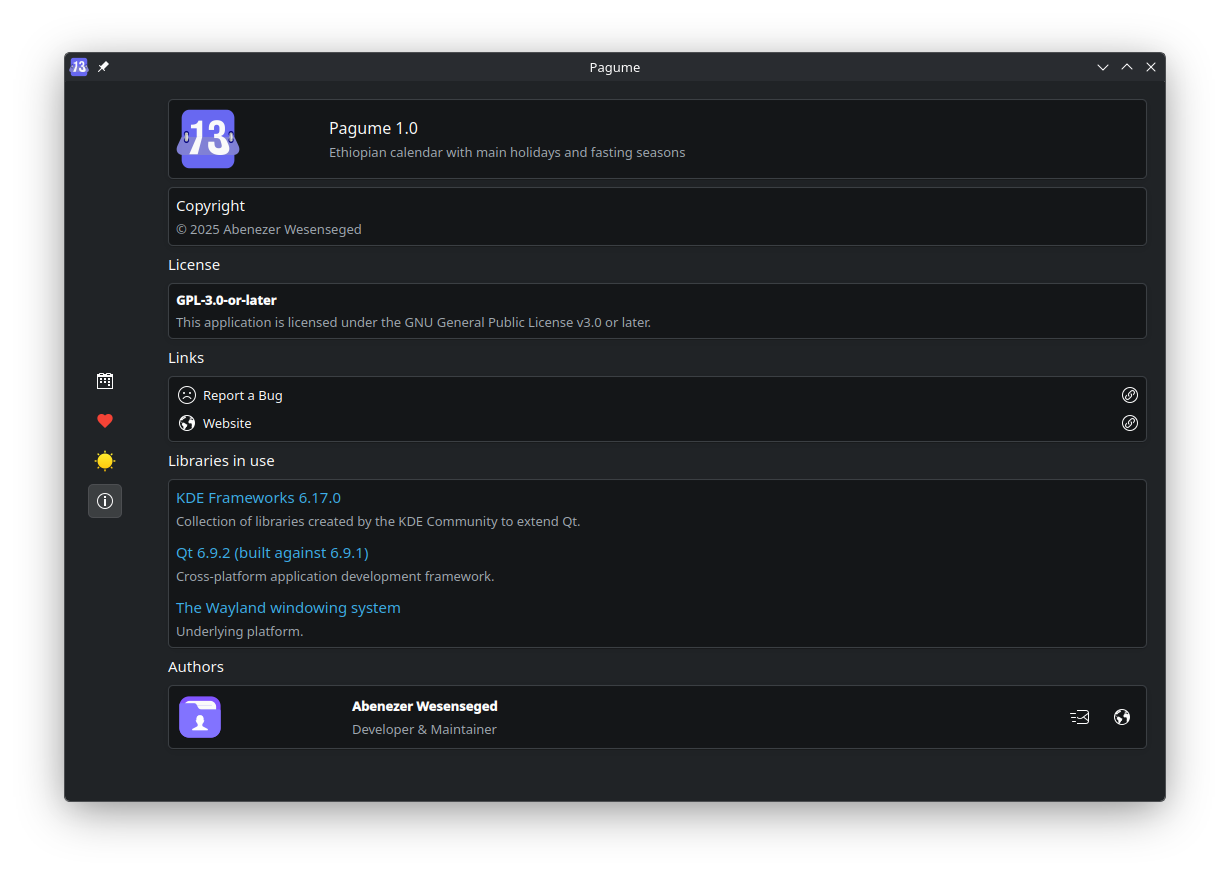
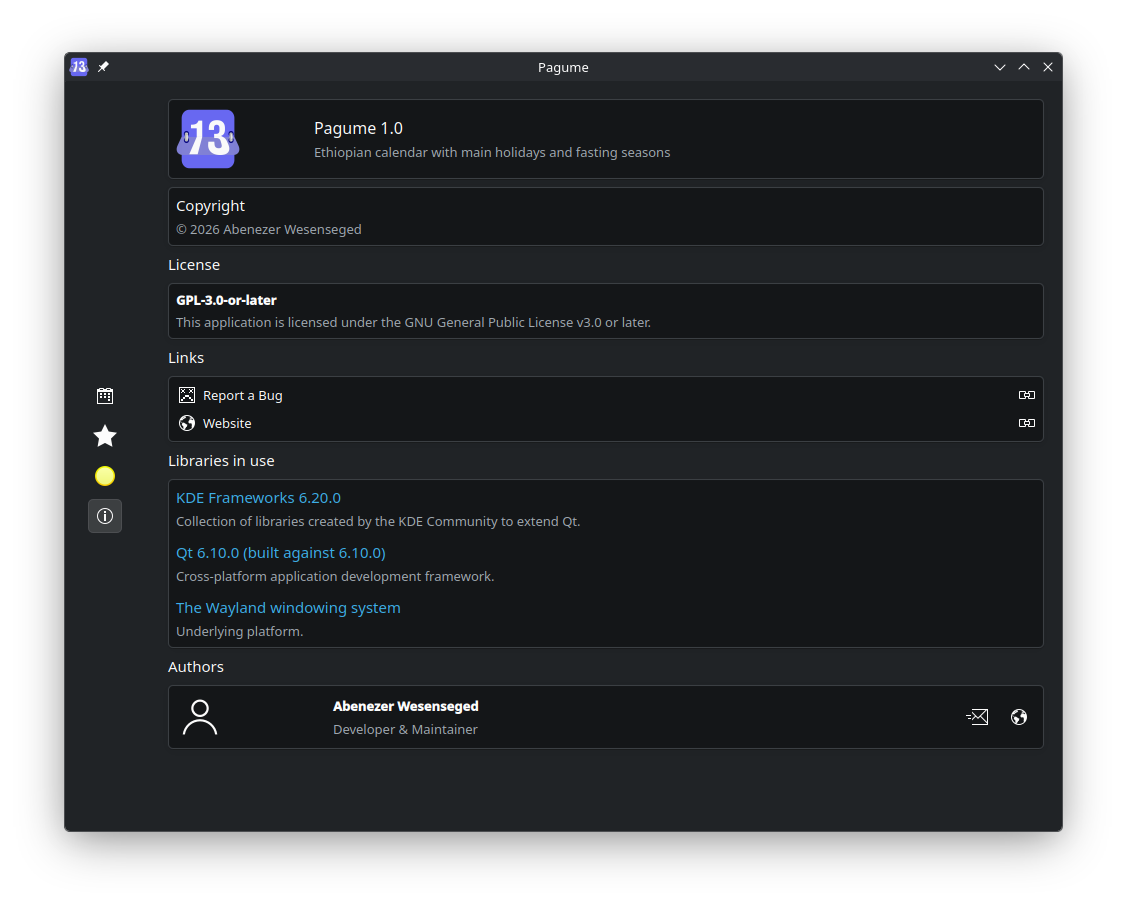
spelling corrections, update screenshots

Changed region(s): [[0.0311, 0.0308, 0.9627, 0.9226], [0.2795, 0.7688, 0.4348, 0.861]]

diff --git a/src/qml/pages/Calendar.qml b/src/qml/pages/Calendar.qml
@@ -9,6 +9,7 @@ import "EthiopianCalendar.js" as EthCal
 Kirigami.Page {
     id: calendarPage
 
+    property var months: ["መስከረም", "ጥቅምት", "ኅዳር", "ታኅሣሥ", "ጥር", "የካቲት", "መጋቢት", "ሚያዝያ", "ግንቦት", "ሰኔ", "ሐምሌ", "ነሐሴ", "ጳጕሜን"]
     property bool isAmharic: appSettings.savedIsAmharic
     property var amharicNumbers: ["፩", "፪", "፫", "፬", "፭", "፮", "፯", "፰", "፱", "፲", "፲፩", "፲፪", "፲፫", "፲፬", "፲፭", "፲፮", "፲፯", "፲፰", "፲፱", "፳", "፳፩", "፳፪", "፳፫", "፳፬", "፳፭", "፳፮", "፳፯", "፳፰", "፳፱", "፴"]
     property var arabicNumbers: ["1", "2", "3", "4", "5", "6", "7", "8", "9", "10", "11", "12", "13", "14", "15", "16", "17", "18", "19", "20", "21", "22", "23", "24", "25", "26", "27", "28", "29", "30"]
@@ -53,7 +54,7 @@ Kirigami.Page {
             day: 27
         }
         ListElement {
-            name: "የድርግ ወደቀበት ቀን"
+            name: "ደርግ የወደቀበት ቀን"
             month: "ግንቦት"
             day: 20
         }
@@ -227,7 +228,7 @@ Kirigami.Page {
                         if (isHoliday)
                             return "#7e54ff";
                         if (calendarPage.currentEthYear === calendarPage.ethToday.year && calendarPage.currentEthMonth === calendarPage.ethToday.month && dayNumber === calendarPage.ethToday.day)
-                            return Kirigami.Theme.positiveTextColor;
+                            return "#52796f";
                         return Kirigami.Theme.backgroundColor;
                     }
 

diff --git a/src/qml/pages/EthiopianCalendar.js b/src/qml/pages/EthiopianCalendar.js
@@ -89,15 +89,15 @@ function toEthiopian(gregYear, gregMonth, gregDay) {
 
 // Ethiopian month names
 const months = [
-    "መስከረም", "ጥቅምት", "ኅዳር", "ታኅሣስ",
+    "መስከረም", "ጥቅምት", "ኅዳር", "ታኅሣሥ",
     "ጥር", "የካቲት", "መጋቢት", "ሚያዝያ",
-    "ግንቦት", "ሰኔ", "ሐምሌ", "ነሐሴ", "ጳጉሜን"
+    "ግንቦት", "ሰኔ", "ሐምሌ", "ነሐሴ", "ጳጕሜን"
 ]
 
 // Ethiopian weekdays (start from Monday)
 const weekdays = [
-    "ሰኞ", "ማክሰኞ", "ረቡዕ", "ሐሙስ",
-    "ዓርብ", "ቅዳሜ", "እሑድ"
+    "ሰኞ", "ማክሰኞ", "ረቡዕ", "ኀሙስ",
+    "ዐርብ", "ቅዳሜ", "እሑድ"
 ]
 
 // Utility to find first weekday of Ethiopian month

diff --git a/src/qml/pages/About.qml b/src/qml/pages/About.qml
@@ -51,7 +51,7 @@ Kirigami.ScrollablePage {
                         level: 3
                     }
                     Controls.Label {
-                        text: "© 2025 Abenezer Wesenseged"
+                        text: "© 2026 Abenezer Wesenseged"
                         color: Kirigami.Theme.disabledTextColor
                     }
                 }

diff --git a/src/main.cpp b/src/main.cpp
@@ -32,7 +32,7 @@ int main(int argc, char *argv[]) {
       i18n("Pagume"), QStringLiteral("1.0"),
       i18n("A modern Ethiopian calendar app featuring major holidays and "
            "fasting periods."),
-      KAboutLicense::GPL_V3, i18n("© 2025 Wesenseged Community"));
+      KAboutLicense::GPL_V3, i18n("© 2026 Wesenseged Community"));
 
   KAboutData::setApplicationData(aboutData);
 
